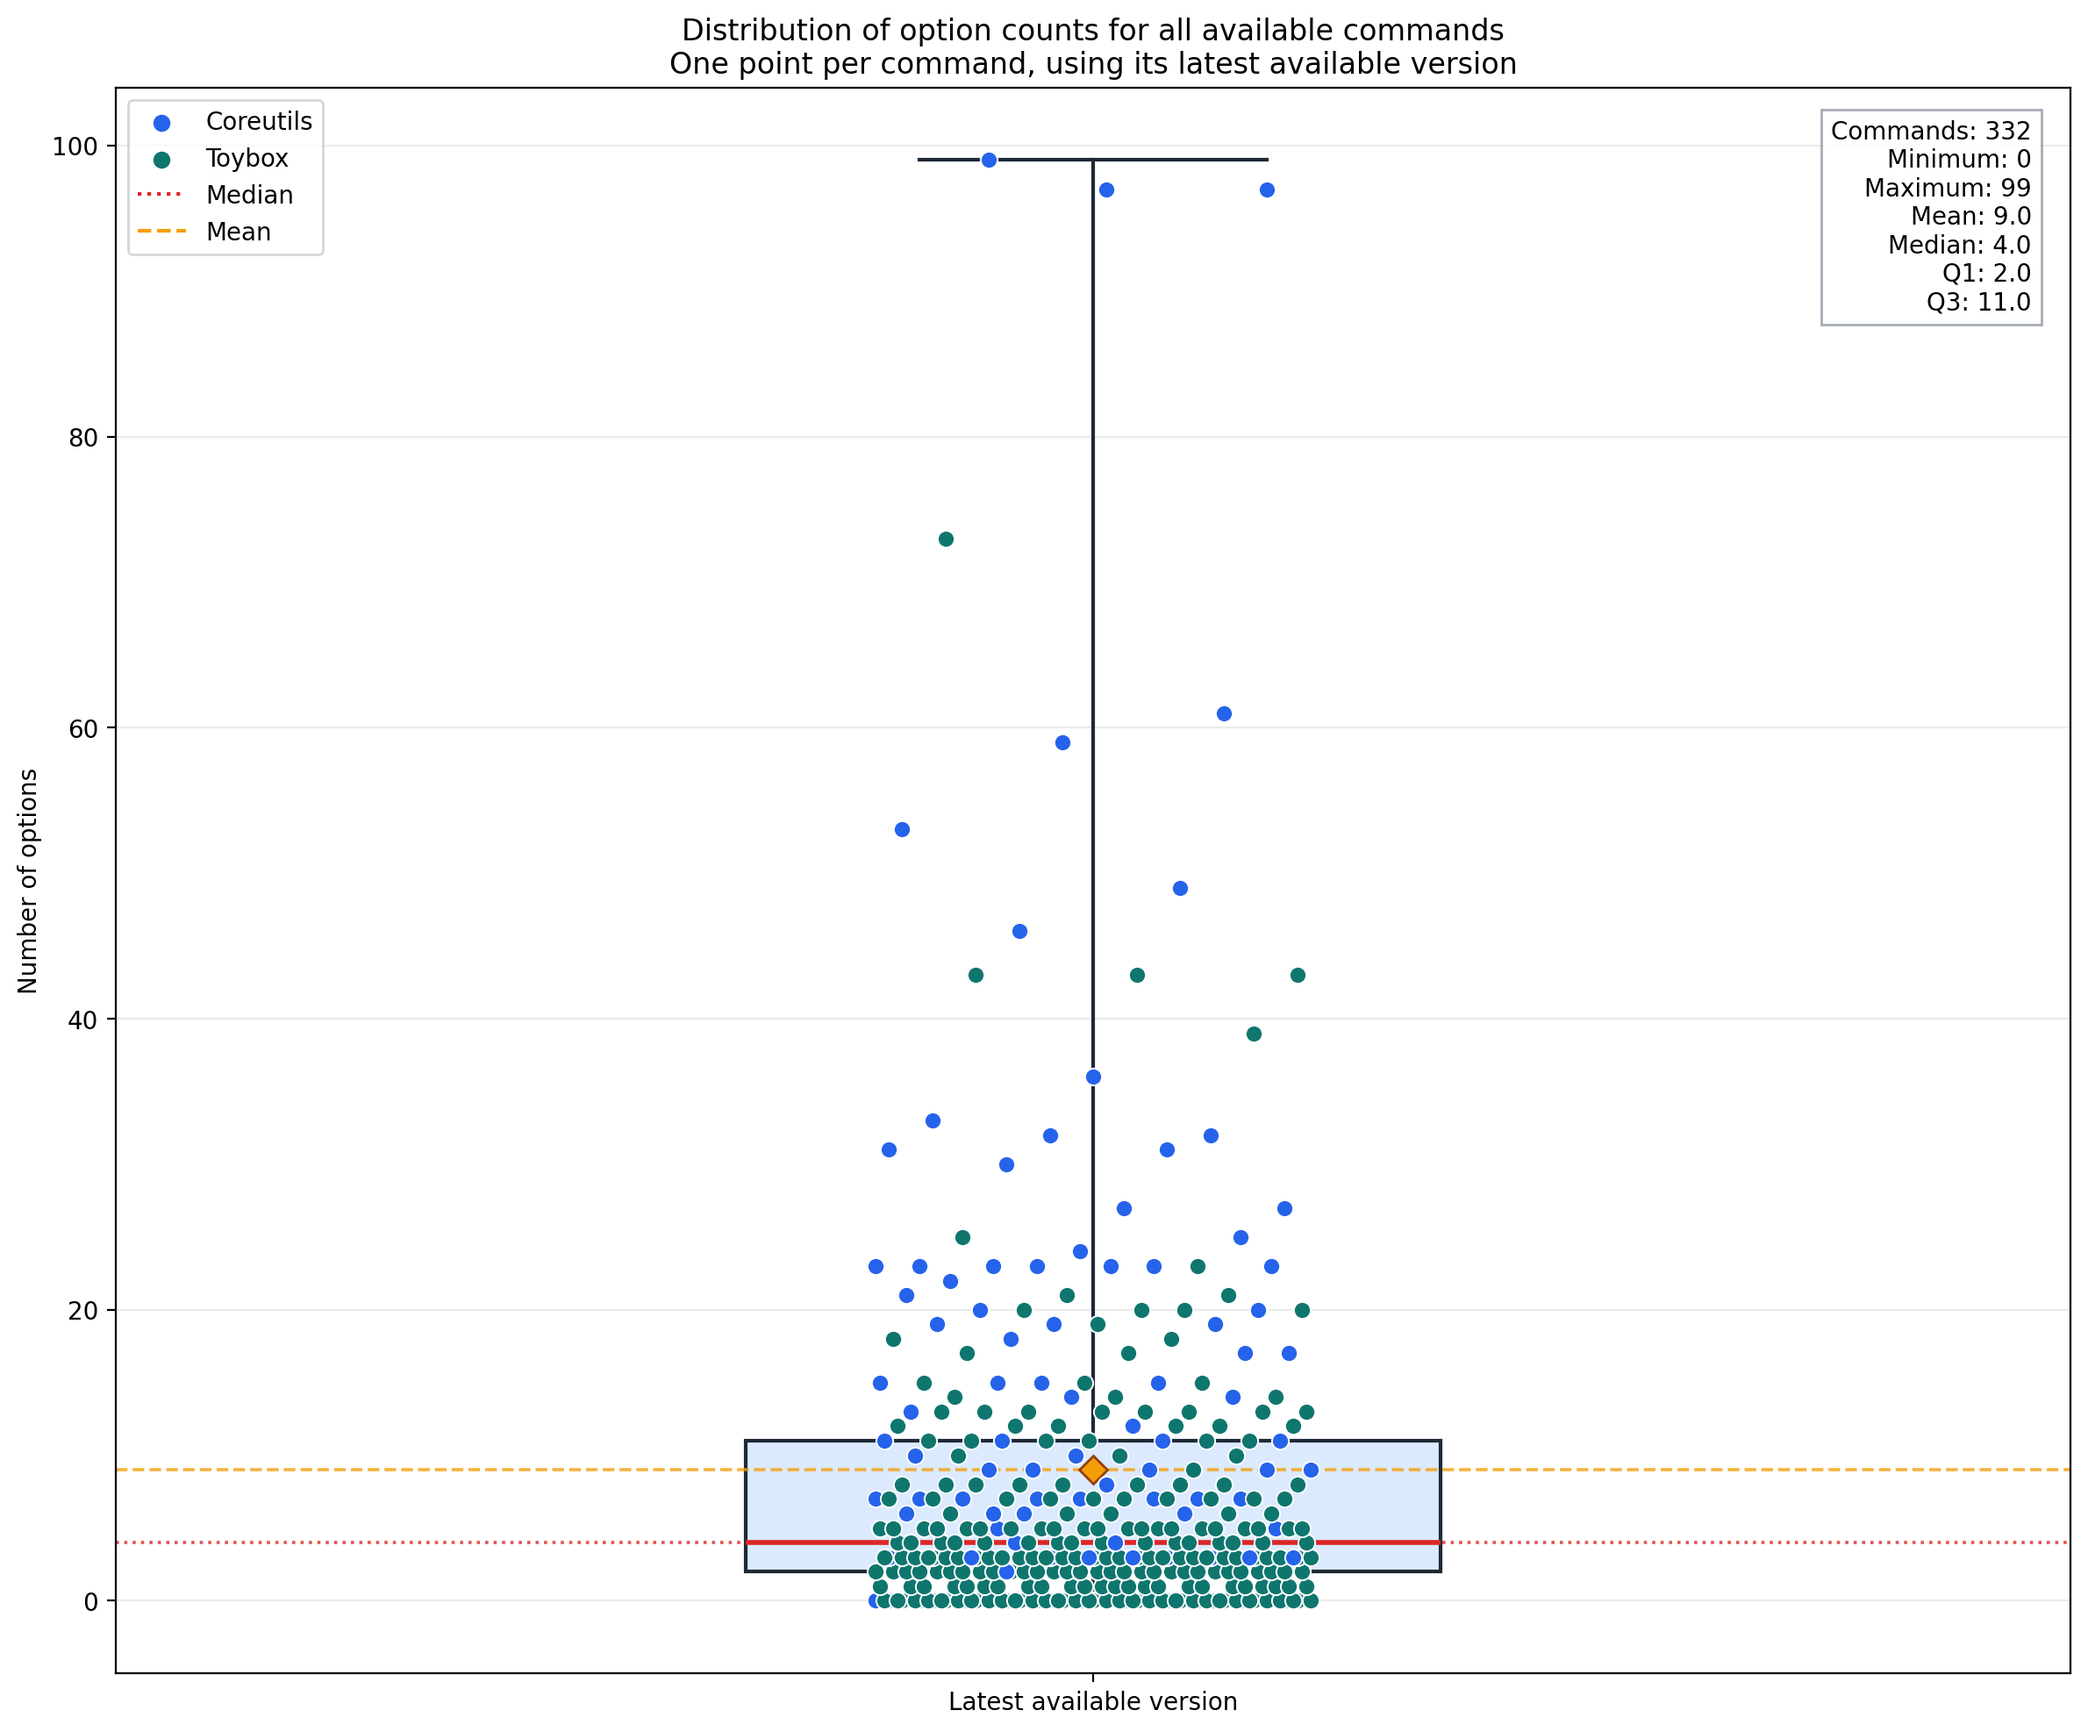
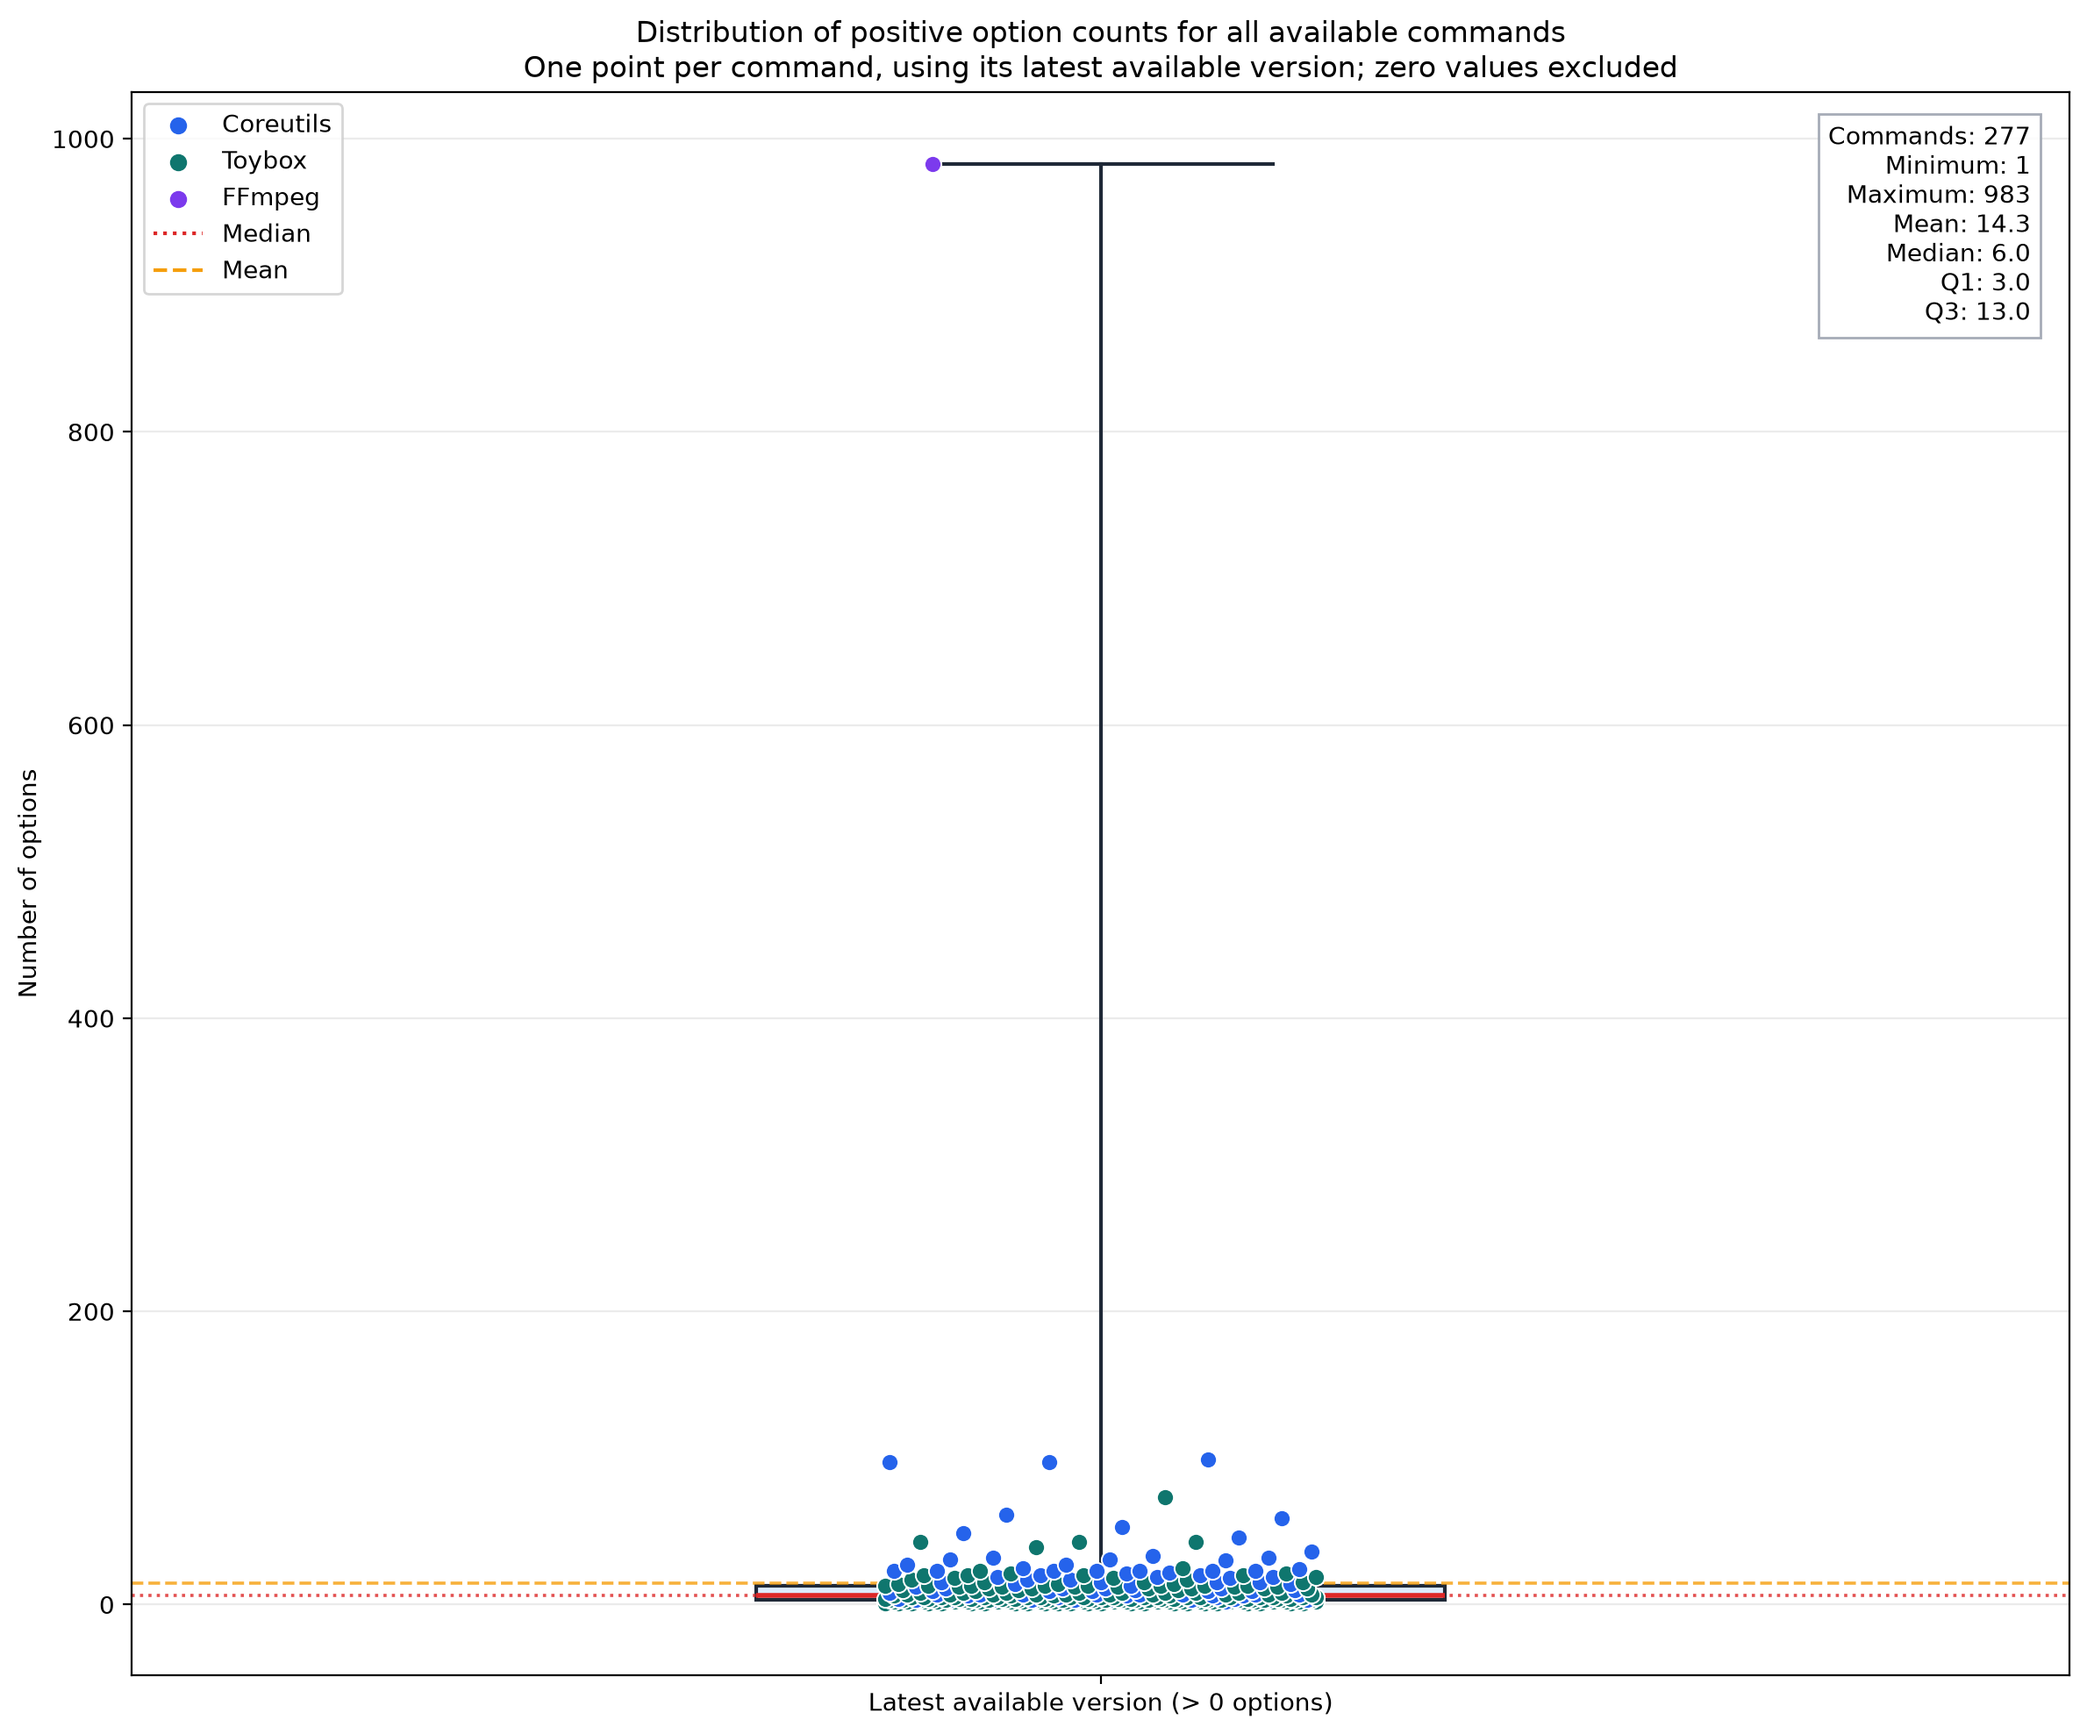
ajout de ffmpeg dans les plots

diff --git a/Visualisation/graphes/graphcsv.py b/Visualisation/graphes/graphcsv.py
@@ -211,10 +211,14 @@ def tracer_courbes(donnees, sortie, afficher=False):
 def tracer_boxplot(donnees, sortie, afficher=False):
     plt = charger_matplotlib()
 
-    mesures = extraire_dernieres_mesures(donnees)
+    mesures = [
+        mesure
+        for mesure in extraire_dernieres_mesures(donnees)
+        if mesure[2] > 0
+    ]
 
     if not mesures:
-        raise ValueError("No usable latest-version data found.")
+        raise ValueError("No positive latest-version option count found.")
 
     valeurs = [mesure[2] for mesure in mesures]
     moyenne = mean(valeurs)
@@ -230,7 +234,7 @@ def tracer_boxplot(donnees, sortie, afficher=False):
     fig, axe = plt.subplots(figsize=(12, 10))
     axe.boxplot(
         valeurs,
-        vert=True,
+        orientation="vertical",
         widths=0.32,
         whis=(0, 100),
         showmeans=True,
@@ -356,11 +360,11 @@ def tracer_boxplot(donnees, sortie, afficher=False):
     axe.plot([], [], color="#f59e0b", linestyle="--", label="Mean")
     axe.legend(loc="upper left")
 
-    axe.set_xticks([1], ["Latest available version"])
+    axe.set_xticks([1], ["Latest available version (> 0 options)"])
     axe.set_ylabel("Number of options")
     axe.set_title(
-        "Distribution of option counts for all available commands\n"
-        "One point per command, using its latest available version"
+        "Distribution of positive option counts for all available commands\n"
+        "One point per command, using its latest available version; zero values excluded"
     )
     axe.grid(axis="y", alpha=0.25)
     axe.set_xlim(0.55, 1.45)
